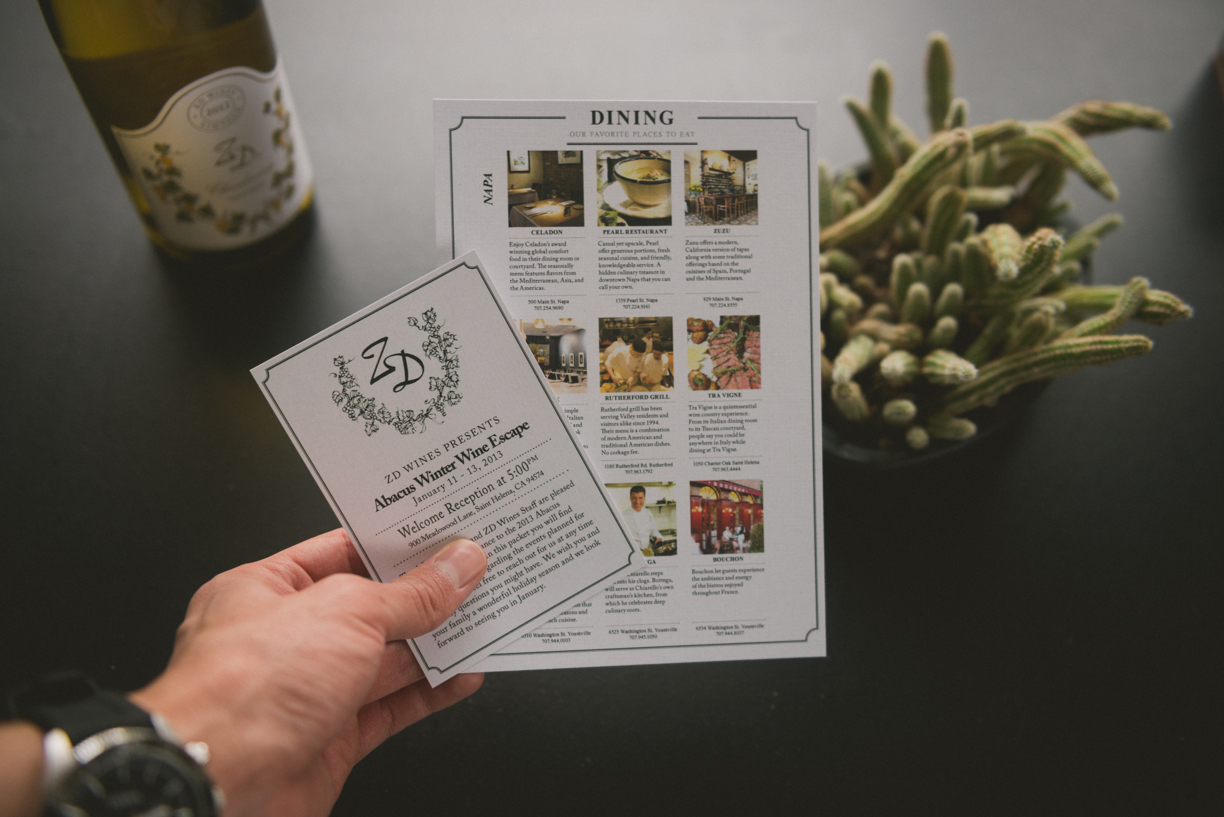
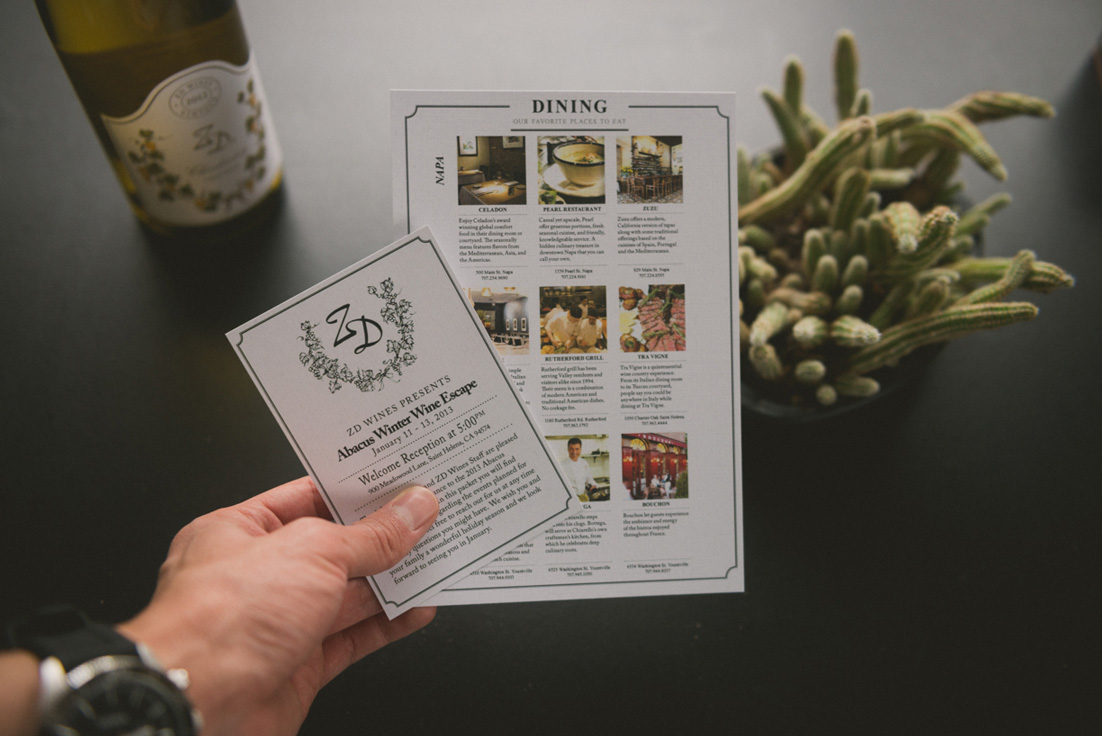
compress images

diff --git a/public/stylesheets/theme.css b/public/stylesheets/theme.css
@@ -197,7 +197,7 @@ a:focus, button:focus {
   overflow: hidden;
   background: #4B4848;
   background-size: cover;
-  background-image: url("../images/code.png");
+  background-image: url("../images/code.jpg");
   background-position: center 16%;
   height: 100%;
   position: relative;
@@ -276,7 +276,7 @@ a:focus, button:focus {
     left: 625px;
     width: 570px;
     height: 333px;
-    background-image: url("../../images/static-hero.png");
+    background-image: url("../../images/static-hero.jpg");
     background-repeat: no-repeat; }
     @media (max-width: 991px) {
       #home #hero .img {
@@ -476,7 +476,7 @@ html.bg {
 /* Img Block */
 #home .block-img {
   -webkit-font-smoothing: antialiased;
-  background-image: url(../images/sketch.png);
+  background-image: url(../images/sketch.jpg);
   -webkit-background-size: cover;
   -moz-background-size: cover;
   -o-background-size: cover;
@@ -507,7 +507,7 @@ html.bg {
 
 /* Tools */
 #tools {
-  background-image: url(../../images/sketch.png);
+  background-image: url(../../images/sketch.jpg);
   background-size: 100%;
 }
 
